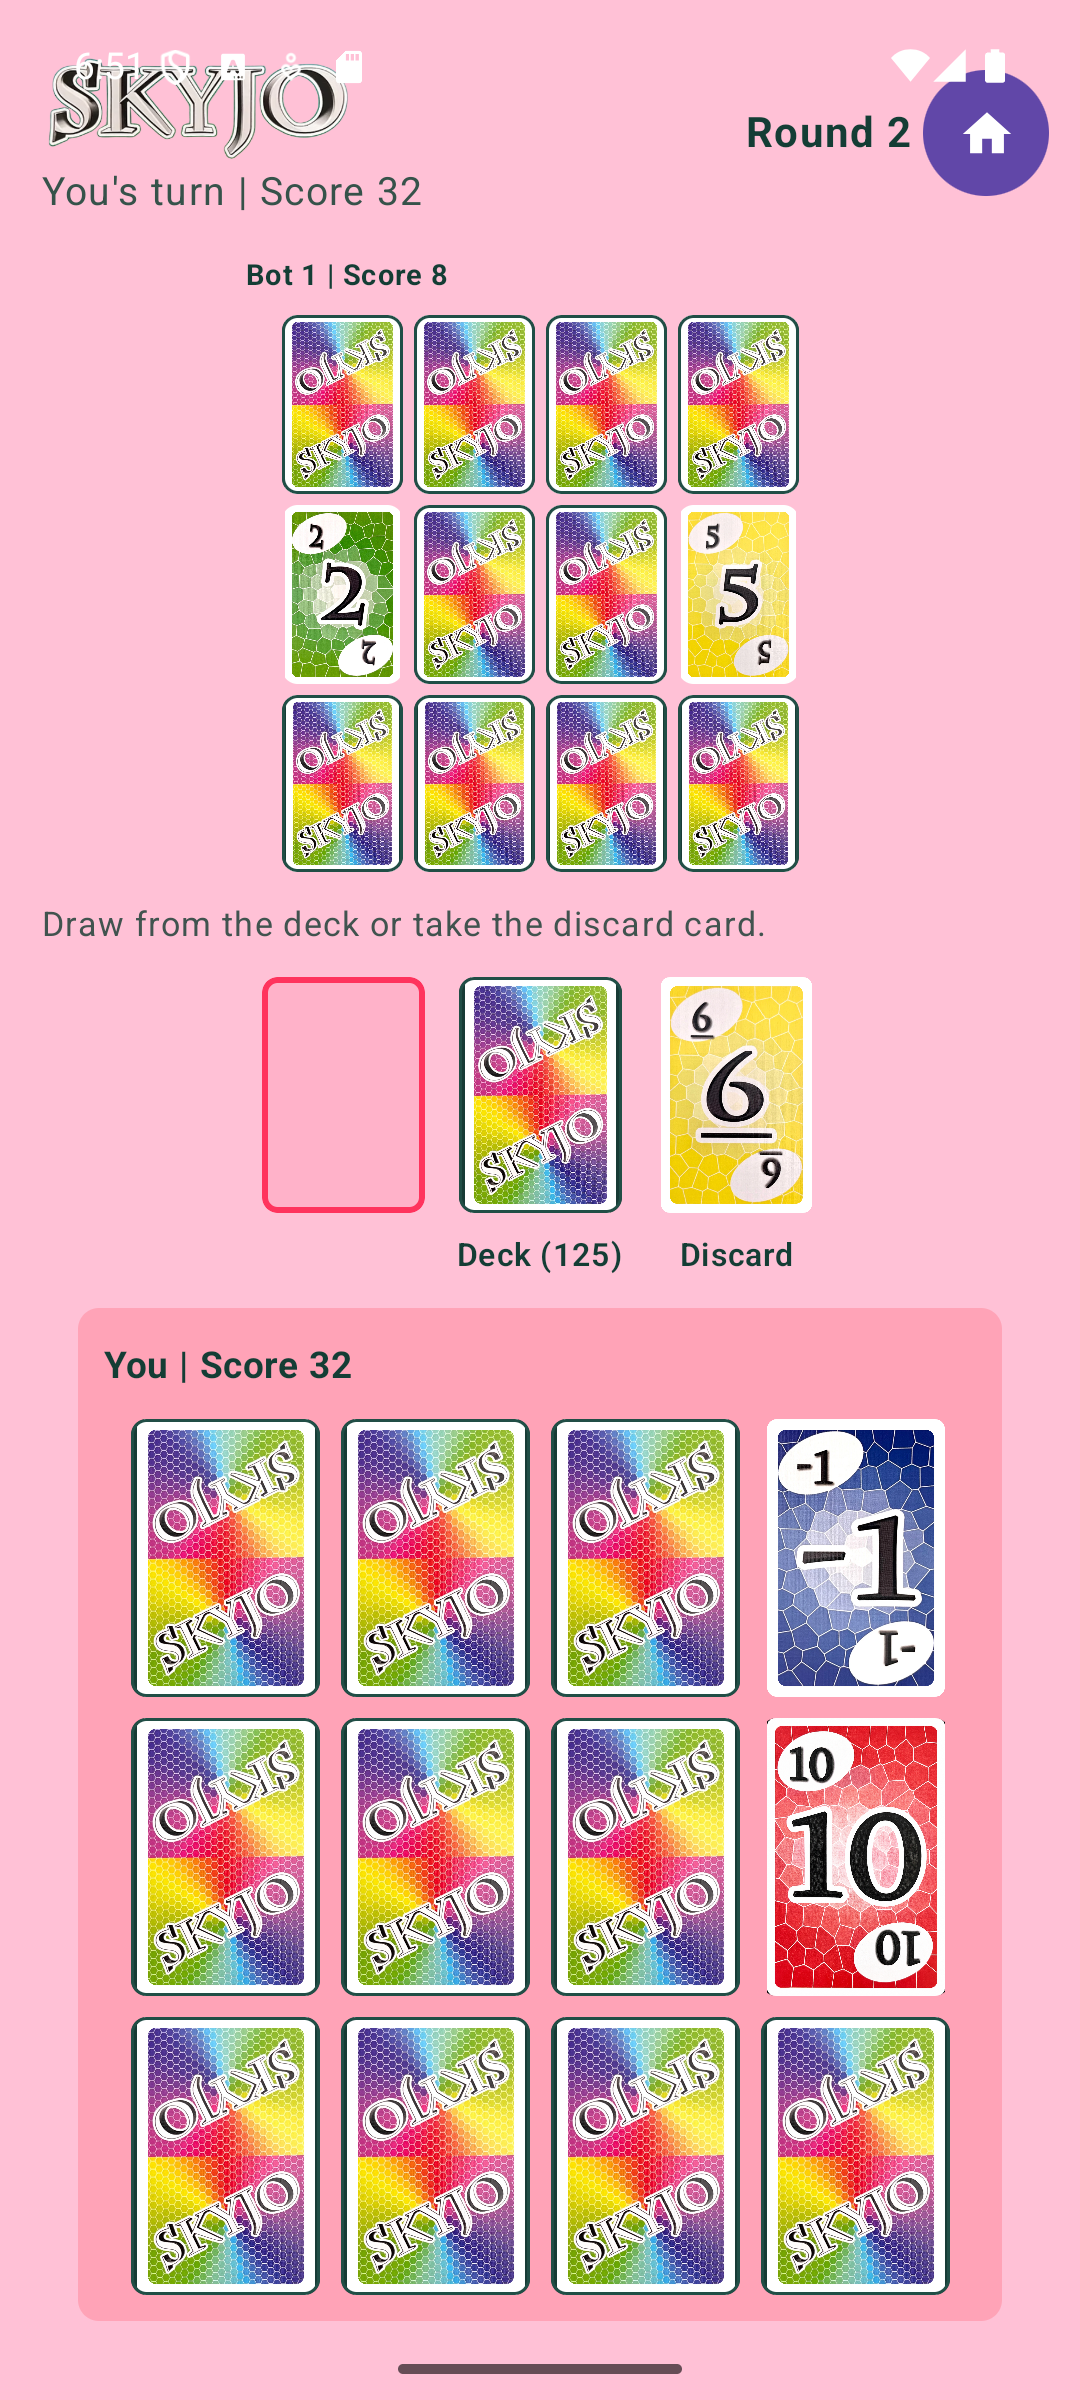
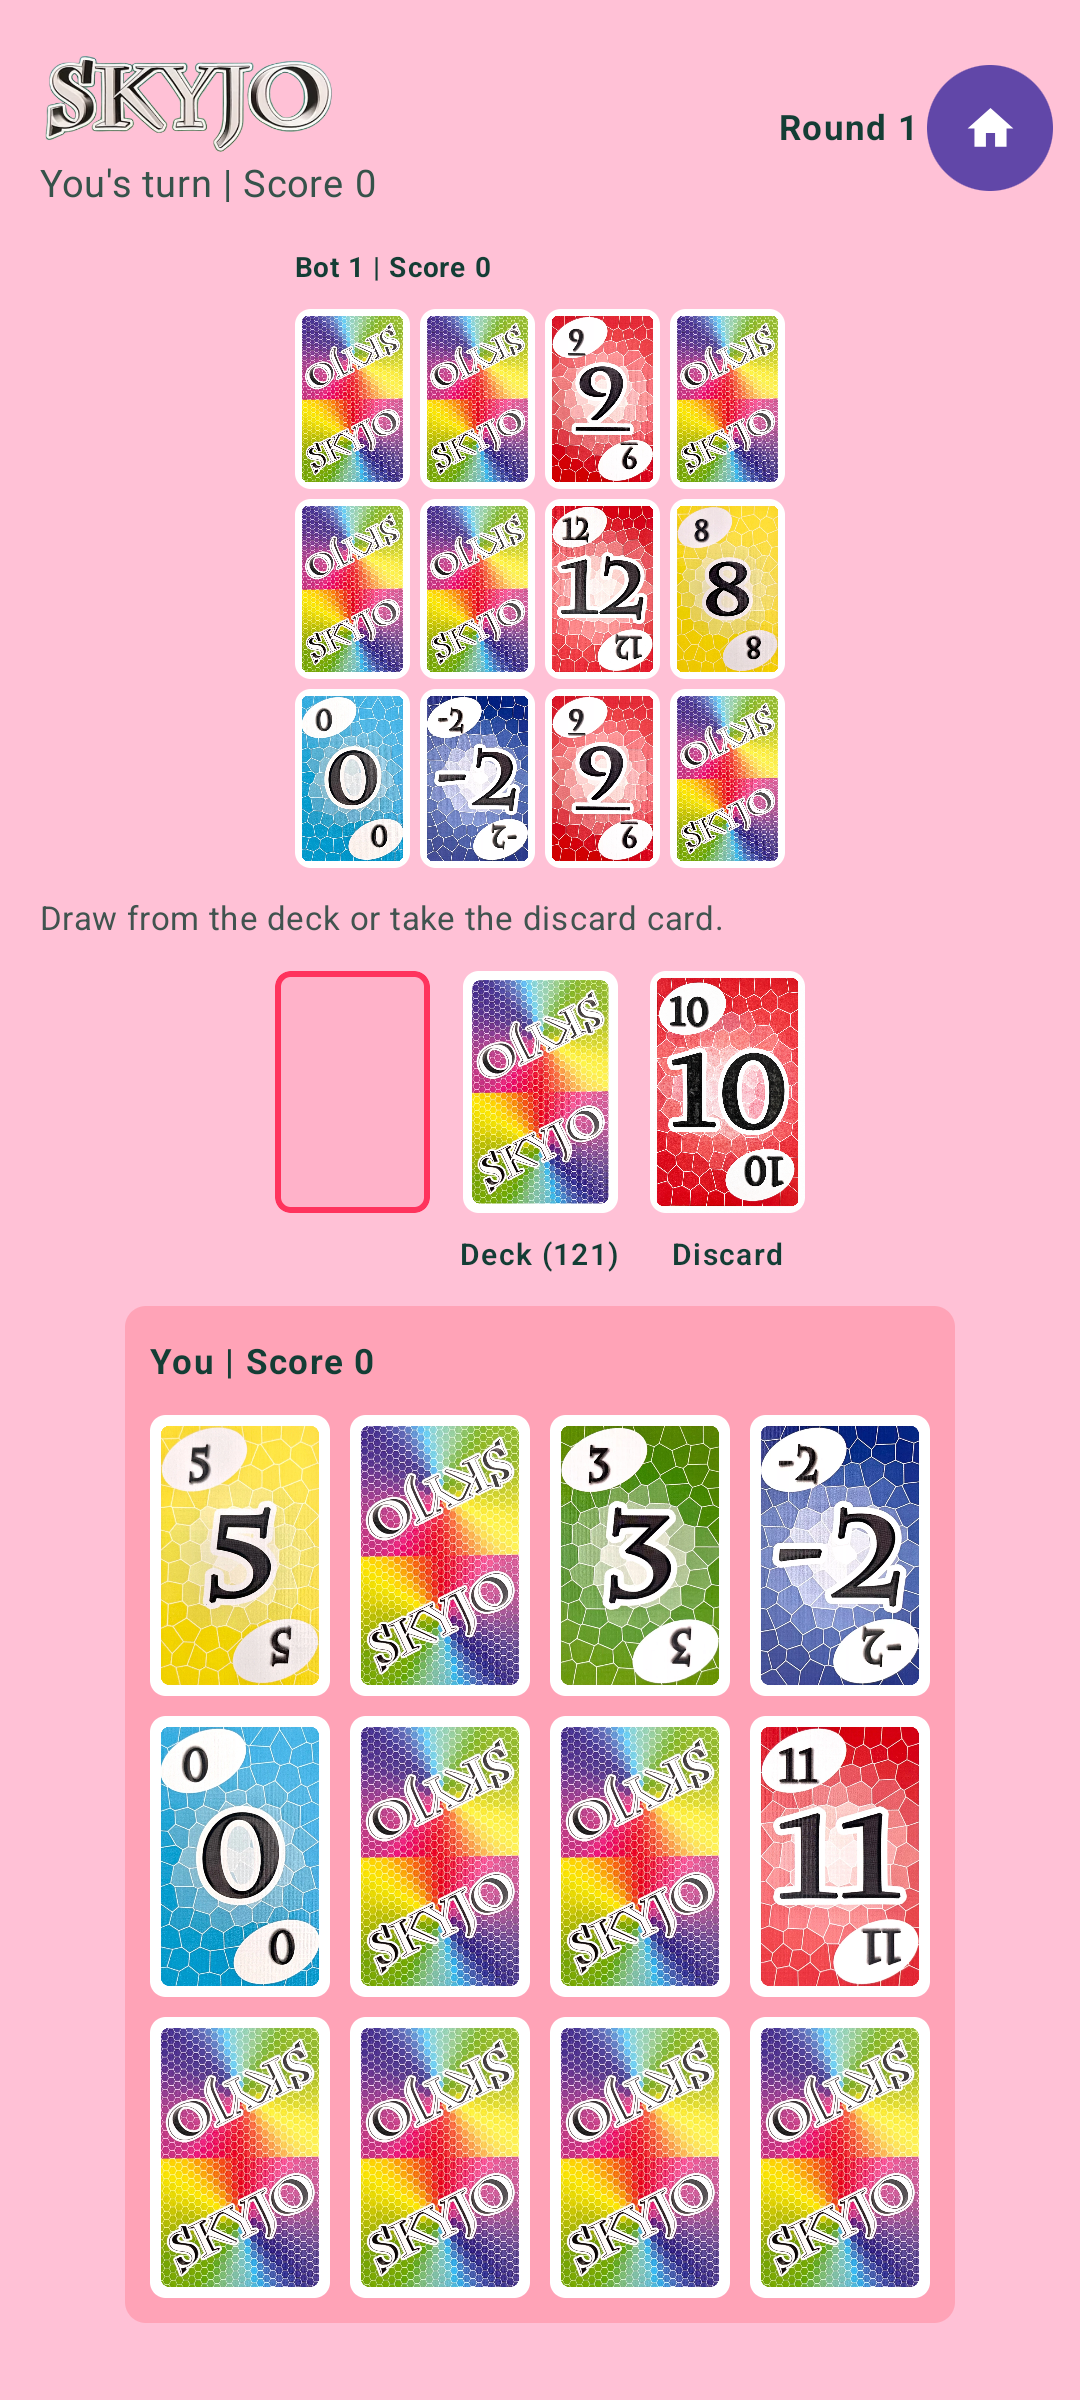
[FIX] Responsive board game screen

diff --git a/app/src/main/java/com/skyo/app/MainActivity.kt b/app/src/main/java/com/skyo/app/MainActivity.kt
@@ -621,12 +621,10 @@ private fun SkyjoGameScreen(
     }
 
     BoxWithConstraints(modifier = Modifier.fillMaxSize()) {
-        val boardLayout = remember(maxWidth, maxHeight, humanPlayer.grid, opponent?.grid) {
+        val boardLayout = remember(maxWidth, maxHeight) {
             GameBoardLayout.calculate(
                 maxWidth = maxWidth,
                 maxHeight = maxHeight,
-                humanGrid = visibleGridSize(humanPlayer.grid),
-                botGrid = visibleGridSize(opponent?.grid.orEmpty()),
             )
         }
         val discard = gameState.discardPile.lastOrNull()
@@ -675,6 +673,7 @@ private fun SkyjoGameScreen(
                         player = player,
                         roundText = if (gameState.gameEnded) "Game over" else "Round ${gameState.round}",
                         compact = true,
+                        scale = boardLayout.uiScale,
                         onReturnToMenu = onReturnToMenu,
                     )
 
@@ -710,7 +709,7 @@ private fun SkyjoGameScreen(
                                 text = message,
                                 modifier = Modifier.fillMaxWidth(),
                                 color = Color(0xFF41534F),
-                                fontSize = 12.sp,
+                                fontSize = (12f * boardLayout.uiScale).sp,
                                 maxLines = 2,
                                 overflow = TextOverflow.Ellipsis,
                             )
@@ -776,6 +775,7 @@ private fun SkyjoGameScreen(
                         player = player,
                         roundText = if (gameState.gameEnded) "Game over" else "Round ${gameState.round}",
                         compact = false,
+                        scale = boardLayout.uiScale,
                         onReturnToMenu = onReturnToMenu,
                     )
 
@@ -798,7 +798,7 @@ private fun SkyjoGameScreen(
                         text = message,
                         modifier = Modifier.fillMaxWidth(),
                         color = Color(0xFF41534F),
-                        fontSize = 13.sp,
+                        fontSize = (13f * boardLayout.uiScale).sp,
                         maxLines = 1,
                         overflow = TextOverflow.Ellipsis,
                     )
@@ -1020,7 +1020,7 @@ private fun BoardCard(
                 painter = painterResource(cardImageRes(card.value)),
                 contentDescription = "Card ${card.value}",
                 modifier = Modifier.fillMaxSize(),
-                contentScale = ContentScale.Fit,
+                contentScale = ContentScale.FillBounds,
             )
             else -> CardBack()
         }
@@ -1029,20 +1029,12 @@ private fun BoardCard(
 
 @Composable
 private fun CardBack() {
-    Box(
-        modifier = Modifier
-            .fillMaxSize()
-            .background(Color(0xFF173B35))
-            .border(1.dp, Color(0xFF214E46), RoundedCornerShape(6.dp)),
-        contentAlignment = Alignment.Center,
-    ) {
-        Image(
-            painter = painterResource(R.drawable.card_back),
-            contentDescription = "Hidden card",
-            modifier = Modifier.fillMaxSize(),
-            contentScale = ContentScale.Fit,
-        )
-    }
+    Image(
+        painter = painterResource(R.drawable.card_back),
+        contentDescription = "Hidden card",
+        modifier = Modifier.fillMaxSize(),
+        contentScale = ContentScale.FillBounds,
+    )
 }
 
 @Composable
@@ -1060,6 +1052,7 @@ private fun GameHeader(
     player: PlayerState,
     roundText: String,
     compact: Boolean,
+    scale: Float,
     onReturnToMenu: () -> Unit,
 ) {
     Row(
@@ -1072,13 +1065,13 @@ private fun GameHeader(
                 horizontalArrangement = Arrangement.spacedBy(8.dp),
                 verticalAlignment = Alignment.CenterVertically,
             ) {
-                GameLogo(compact = true)
-                GameTurnText(player = player, compact = true)
+                GameLogo(compact = true, scale = scale)
+                GameTurnText(player = player, compact = true, scale = scale)
             }
         } else {
             Column {
-                GameLogo(compact = false)
-                GameTurnText(player = player, compact = false)
+                GameLogo(compact = false, scale = scale)
+                GameTurnText(player = player, compact = false, scale = scale)
             }
         }
 
@@ -1090,12 +1083,13 @@ private fun GameHeader(
                 text = roundText,
                 fontWeight = FontWeight.Bold,
                 color = Color(0xFF143D35),
+                fontSize = (14f * scale).sp,
                 maxLines = 1,
             )
             IconButton(
                 onClick = onReturnToMenu,
                 modifier = Modifier
-                    .size(if (compact) 36.dp else 40.dp)
+                    .size((if (compact) 36f else 40f).dp * scale)
                     .clip(CircleShape)
                     .background(Color(0xFF6147A8)),
             ) {
@@ -1103,7 +1097,7 @@ private fun GameHeader(
                     painter = painterResource(R.drawable.home),
                     contentDescription = "Home",
                     tint = Color.White,
-                    modifier = Modifier.size(if (compact) 20.dp else 22.dp),
+                    modifier = Modifier.size((if (compact) 20f else 22f).dp * scale),
                 )
             }
         }
@@ -1111,13 +1105,16 @@ private fun GameHeader(
 }
 
 @Composable
-private fun GameLogo(compact: Boolean) {
+private fun GameLogo(
+    compact: Boolean,
+    scale: Float,
+) {
     Image(
         painter = painterResource(R.drawable.icon),
         contentDescription = "SKYJO",
         modifier = Modifier.size(
-            width = if (compact) 96.dp else 118.dp,
-            height = if (compact) 36.dp else 45.dp,
+            width = (if (compact) 96f else 118f).dp * scale,
+            height = (if (compact) 36f else 45f).dp * scale,
         ),
         contentScale = ContentScale.Fit,
     )
@@ -1127,10 +1124,11 @@ private fun GameLogo(compact: Boolean) {
 private fun GameTurnText(
     player: PlayerState,
     compact: Boolean,
+    scale: Float,
 ) {
     Text(
         text = "${player.name}'s turn | Score ${player.score}",
-        fontSize = if (compact) 12.sp else 15.sp,
+        fontSize = ((if (compact) 12f else 15f) * scale).sp,
         color = Color(0xFF36524A),
         maxLines = 1,
         overflow = TextOverflow.Ellipsis,
@@ -1186,6 +1184,8 @@ private fun PileRow(
                 value = deckSize.toString(),
                 cardWidth = layout.pileCardWidth,
                 cardHeight = layout.pileCardHeight,
+                labelGap = layout.pileLabelGap,
+                labelFontSize = layout.pileLabelFontSize,
                 enabled = canUsePiles,
                 draggable = canDragPile,
                 onPositioned = onDeckPositioned,
@@ -1200,6 +1200,8 @@ private fun PileRow(
                 imageRes = discard?.let { cardImageRes(it.value) },
                 cardWidth = layout.pileCardWidth,
                 cardHeight = layout.pileCardHeight,
+                labelGap = layout.pileLabelGap,
+                labelFontSize = layout.pileLabelFontSize,
                 enabled = canUsePiles,
                 draggable = canDragPile,
                 onPositioned = onDiscardPositioned,
@@ -1219,6 +1221,8 @@ private fun PileCard(
     imageRes: Int? = null,
     cardWidth: Dp,
     cardHeight: Dp,
+    labelGap: Dp,
+    labelFontSize: androidx.compose.ui.unit.TextUnit,
     enabled: Boolean = true,
     draggable: Boolean = false,
     onPositioned: (Rect) -> Unit = {},
@@ -1281,10 +1285,10 @@ private fun PileCard(
                 )
             }
         }
-        Spacer(modifier = Modifier.height(4.dp))
+        Spacer(modifier = Modifier.height(labelGap))
         Text(
             text = if (label == "Deck") "$label ($value)" else label,
-            fontSize = 12.sp,
+            fontSize = labelFontSize,
             fontWeight = FontWeight.SemiBold,
             color = Color(0xFF143D35),
             maxLines = 1,
@@ -1435,11 +1439,6 @@ private fun FloatingDraggedCard(drag: ActivePileDrag) {
     }
 }
 
-private data class VisibleGridSize(
-    val columns: Int,
-    val rows: Int,
-)
-
 private data class BoardDimensions(
     val cardWidth: Dp,
     val cardHeight: Dp,
@@ -1452,6 +1451,7 @@ private data class BoardDimensions(
 
 private data class GameBoardLayout(
     val landscape: Boolean,
+    val uiScale: Float,
     val horizontalPadding: Dp,
     val verticalPadding: Dp,
     val sectionSpacing: Dp,
@@ -1459,6 +1459,8 @@ private data class GameBoardLayout(
     val pileCardWidth: Dp,
     val pileCardHeight: Dp,
     val pileSlotHeight: Dp,
+    val pileLabelGap: Dp,
+    val pileLabelFontSize: androidx.compose.ui.unit.TextUnit,
     val botBoard: BoardDimensions,
     val humanBoard: BoardDimensions,
 ) {
@@ -1466,8 +1468,6 @@ private data class GameBoardLayout(
         fun calculate(
             maxWidth: Dp,
             maxHeight: Dp,
-            humanGrid: VisibleGridSize,
-            botGrid: VisibleGridSize,
         ): GameBoardLayout {
             val width = maxWidth.value
             val height = maxHeight.value
@@ -1475,10 +1475,10 @@ private data class GameBoardLayout(
             val horizontalPadding = if (width < 360f || landscape) 10f else 16f
             val verticalPadding = if (height < 620f || landscape) 8f else 16f
             val sectionSpacing = if (height < 620f || landscape) 5f else 8f
-            val humanRows = max(1, humanGrid.rows)
-            val humanColumns = max(1, humanGrid.columns)
-            val botRows = max(1, botGrid.rows)
-            val botColumns = max(1, botGrid.columns)
+            val humanRows = BOARD_GRID_ROWS
+            val humanColumns = BOARD_GRID_COLUMNS
+            val botRows = BOARD_GRID_ROWS
+            val botColumns = BOARD_GRID_COLUMNS
 
             val humanGridBaseWidth = humanColumns * HUMAN_CARD_WIDTH_DP + max(0, humanColumns - 1) * HUMAN_GRID_SPACING_DP
             val botGridBaseWidth = botColumns * BOT_CARD_WIDTH_DP + max(0, botColumns - 1) * BOT_GRID_SPACING_DP
@@ -1494,19 +1494,28 @@ private data class GameBoardLayout(
             val humanGridBaseHeight = humanRows * HUMAN_CARD_HEIGHT_DP + max(0, humanRows - 1) * HUMAN_GRID_SPACING_DP
             val botGridBaseHeight = botRows * BOT_CARD_HEIGHT_DP + max(0, botRows - 1) * BOT_GRID_SPACING_DP
             val scaleByHeight = if (landscape) {
-                val availableBoardHeight = height - 2f * verticalPadding - LANDSCAPE_HEADER_HEIGHT_DP - sectionSpacing - BOARD_TITLE_HEIGHT_DP - 2f * HUMAN_BOARD_PADDING_DP
-                val largestBoardBaseHeight = max(humanGridBaseHeight, botGridBaseHeight)
-                (availableBoardHeight / largestBoardBaseHeight).coerceAtMost(1.05f)
+                val baseHeight = 2f * verticalPadding +
+                    LANDSCAPE_HEADER_HEIGHT_DP +
+                    sectionSpacing +
+                    BOARD_TITLE_HEIGHT_DP +
+                    2f * HUMAN_BOARD_PADDING_DP +
+                    max(humanGridBaseHeight, botGridBaseHeight) +
+                    LAYOUT_HEIGHT_RESERVE_DP
+                (height / baseHeight).coerceAtMost(1.05f)
             } else {
-                val fixedHeight = 2f * verticalPadding +
+                val baseHeight = 2f * verticalPadding +
                     PORTRAIT_HEADER_HEIGHT_DP +
                     MESSAGE_HEIGHT_DP +
                     4f * sectionSpacing +
                     2f * BOARD_TITLE_HEIGHT_DP +
+                    PILE_LABEL_GAP_DP +
                     PILE_LABEL_HEIGHT_DP +
-                    2f * HUMAN_BOARD_PADDING_DP
-                val scalableHeight = humanGridBaseHeight + botGridBaseHeight + PILE_CARD_HEIGHT_DP
-                ((height - fixedHeight) / scalableHeight).coerceAtMost(1.05f)
+                    2f * HUMAN_BOARD_PADDING_DP +
+                    humanGridBaseHeight +
+                    botGridBaseHeight +
+                    PILE_CARD_HEIGHT_DP +
+                    LAYOUT_HEIGHT_RESERVE_DP
+                (height / baseHeight).coerceAtMost(1.05f)
             }
             val scale = min(scaleByWidth, scaleByHeight).coerceAtLeast(0.34f)
 
@@ -1521,13 +1530,16 @@ private data class GameBoardLayout(
 
             return GameBoardLayout(
                 landscape = landscape,
-                horizontalPadding = horizontalPadding.dp,
-                verticalPadding = verticalPadding.dp,
-                sectionSpacing = sectionSpacing.dp,
+                uiScale = scale,
+                horizontalPadding = scaled(horizontalPadding),
+                verticalPadding = scaled(verticalPadding),
+                sectionSpacing = scaled(sectionSpacing),
                 pileSpacing = scaled(PILE_SPACING_DP),
                 pileCardWidth = pileCardWidth,
                 pileCardHeight = pileCardHeight,
-                pileSlotHeight = pileCardHeight + 20.dp,
+                pileSlotHeight = pileCardHeight + scaled(20f),
+                pileLabelGap = scaled(PILE_LABEL_GAP_DP),
+                pileLabelFontSize = (12f * scale).sp,
                 botBoard = BoardDimensions(
                     cardWidth = botCardWidth,
                     cardHeight = botCardHeight,
@@ -1535,7 +1547,7 @@ private data class GameBoardLayout(
                     padding = 0.dp,
                     maxWidth = scaled(botGridBaseWidth),
                     backgroundColor = Color.Transparent,
-                    titleFontSize = 11.sp,
+                    titleFontSize = (11f * scale).sp,
                 ),
                 humanBoard = BoardDimensions(
                     cardWidth = humanCardWidth,
@@ -1544,7 +1556,7 @@ private data class GameBoardLayout(
                     padding = scaled(HUMAN_BOARD_PADDING_DP),
                     maxWidth = scaled(humanGridBaseWidth + 2f * HUMAN_BOARD_PADDING_DP),
                     backgroundColor = Color(0xFFFFA3B7),
-                    titleFontSize = 14.sp,
+                    titleFontSize = (14f * scale).sp,
                 ),
             )
         }
@@ -1635,33 +1647,18 @@ private fun BoardGrid(
                             onPositioned = { bounds -> onCardPositioned(index, bounds) },
                             onClick = { onCardClick(index) },
                         )
+                    } else {
+                        Spacer(
+                            modifier = Modifier.size(
+                                width = layout.cardWidth,
+                                height = layout.cardHeight,
+                            ),
+                        )
                     }
                 }
             }
         }
     }
-}
-
-private fun visibleGridSize(cards: List<Card>): VisibleGridSize {
-    if (cards.size < BOARD_GRID_COLUMNS * BOARD_GRID_ROWS) {
-        return VisibleGridSize(columns = BOARD_GRID_COLUMNS, rows = BOARD_GRID_ROWS)
-    }
-
-    val visibleRows = (0 until BOARD_GRID_ROWS).count { row ->
-        (0 until BOARD_GRID_COLUMNS).any { column ->
-            !cards[row * BOARD_GRID_COLUMNS + column].isCleared
-        }
-    }
-    val visibleColumns = (0 until BOARD_GRID_COLUMNS).count { column ->
-        (0 until BOARD_GRID_ROWS).any { row ->
-            !cards[row * BOARD_GRID_COLUMNS + column].isCleared
-        }
-    }
-
-    return VisibleGridSize(
-        columns = visibleColumns.coerceAtLeast(1),
-        rows = visibleRows.coerceAtLeast(1),
-    )
 }
 
 @Composable
@@ -1702,7 +1699,7 @@ private const val DOUBLE_POINTS_BADGE_ANIMATION_MS = 420L
 private const val DOUBLE_POINTS_BADGE_SETTLE_MS = 220L
 private const val BOARD_GRID_COLUMNS = 4
 private const val BOARD_GRID_ROWS = 3
-private const val CARD_ASPECT_RATIO = 62f / 90f
+private const val CARD_ASPECT_RATIO = 1024f / 1600f
 private const val HUMAN_CARD_WIDTH_DP = 72f
 private const val HUMAN_CARD_HEIGHT_DP = HUMAN_CARD_WIDTH_DP / CARD_ASPECT_RATIO
 private const val HUMAN_GRID_SPACING_DP = 8f
@@ -1713,11 +1710,13 @@ private const val BOT_GRID_SPACING_DP = 4f
 private const val PILE_CARD_WIDTH_DP = 62f
 private const val PILE_CARD_HEIGHT_DP = PILE_CARD_WIDTH_DP / CARD_ASPECT_RATIO
 private const val PILE_SPACING_DP = 12f
+private const val PILE_LABEL_GAP_DP = 4f
 private const val PILE_LABEL_HEIGHT_DP = 22f
 private const val BOARD_TITLE_HEIGHT_DP = 18f
 private const val MESSAGE_HEIGHT_DP = 20f
 private const val PORTRAIT_HEADER_HEIGHT_DP = 64f
 private const val LANDSCAPE_HEADER_HEIGHT_DP = 38f
+private const val LAYOUT_HEIGHT_RESERVE_DP = 56f
 
 private fun GameState.roundScoreLines(): List<RoundScoreLine> {
     val baseScores = players.map { player -> SkyoGame.scoreGrid(player.grid) }
